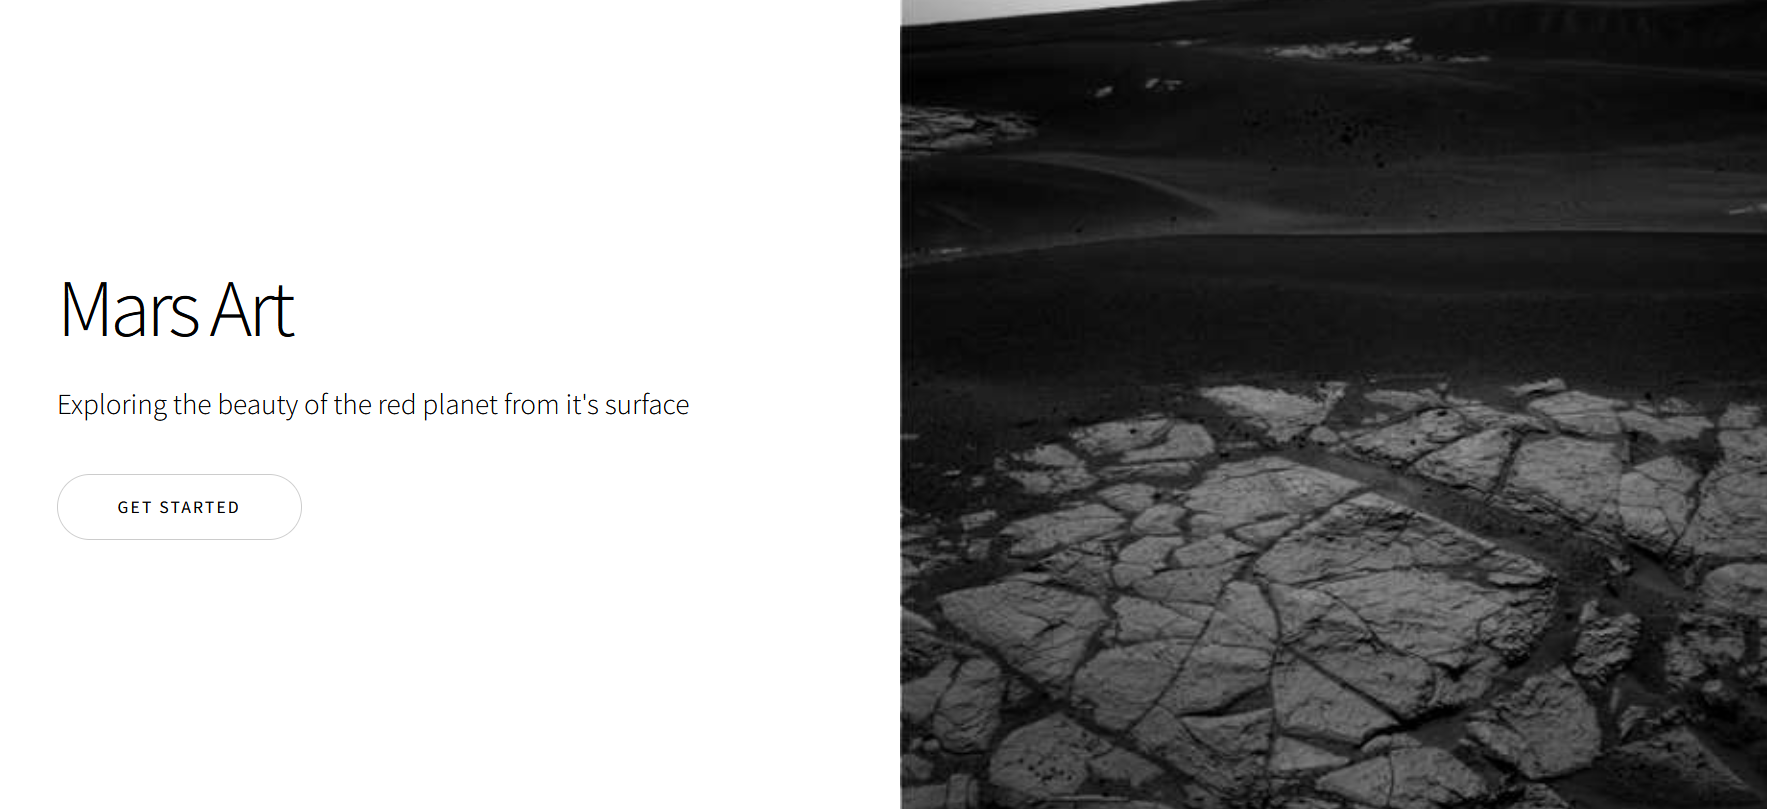
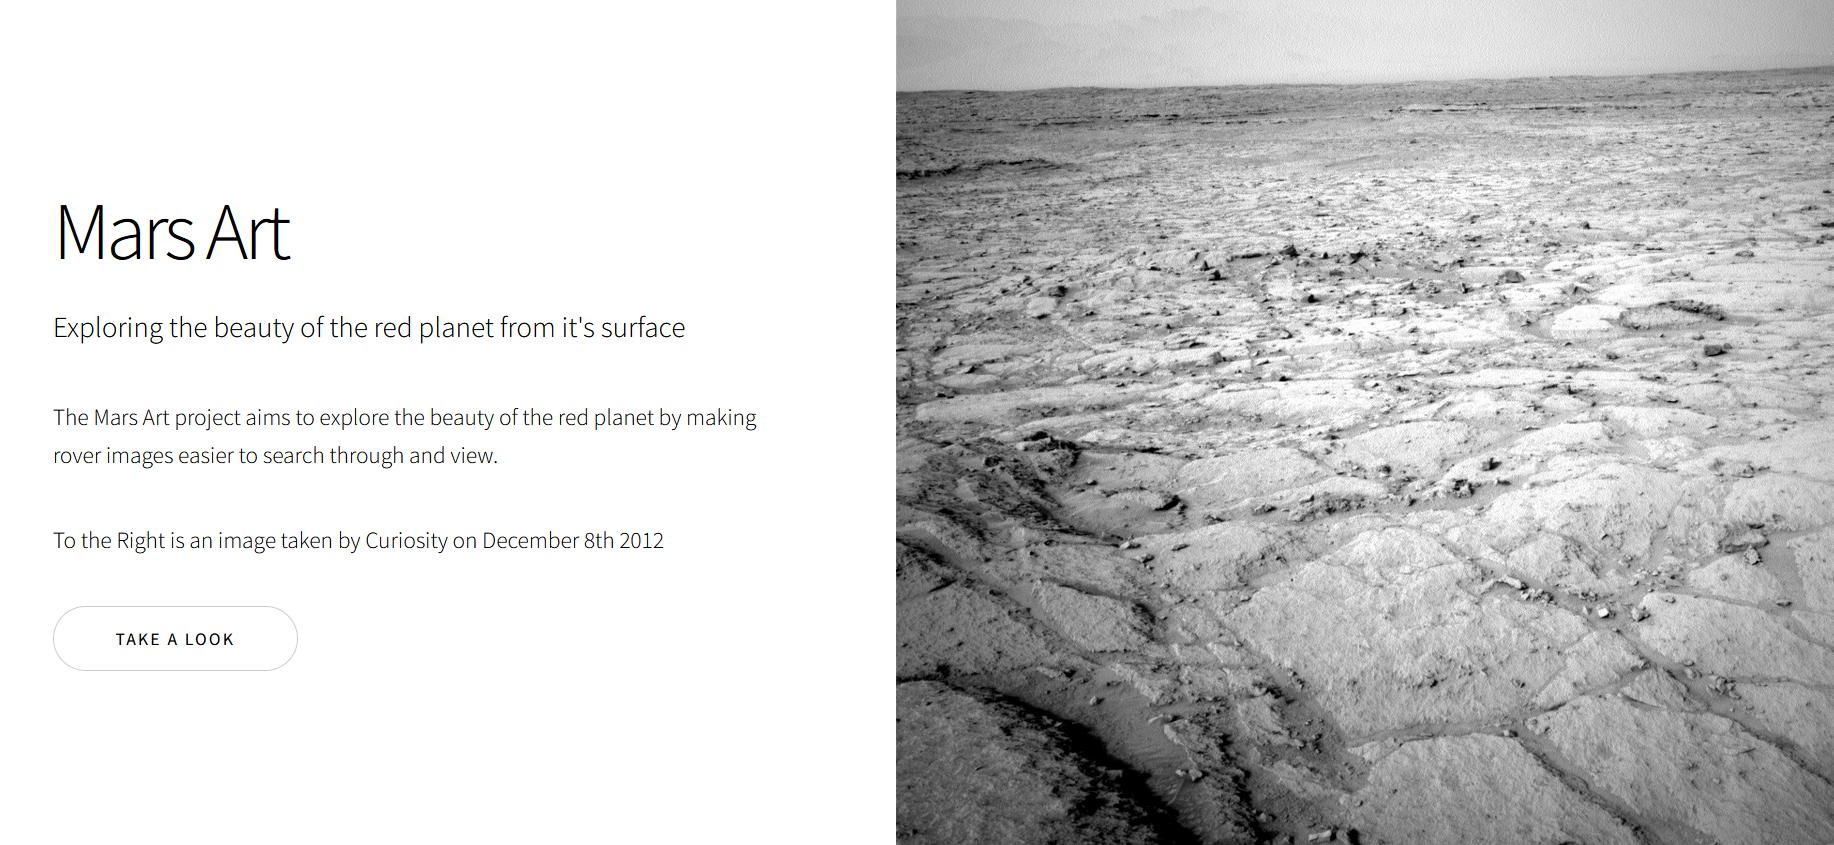
Update to the project README file and updated screen shot

diff --git a/README.md b/README.md
@@ -29,10 +29,10 @@
 
 <!-- PROJECT LOGO -->
 <br />
-<div align="center">
+<!-- <div align="center">
   <a href="https://github.com/Kirk-Esterline/NASA-API-Projects">
     <img src="images/logo.png" alt="Logo" width="80" height="80">
-  </a>
+  </a> -->
 
 <h3 align="center">Mars Art</h3>
 
@@ -83,13 +83,13 @@
 <!-- ABOUT THE PROJECT -->
 ## About The Project
 
-[![Product Name Screen Shot][product-screenshot]](https://example.com)
+[![Product Name Screen Shot][product-screenshot]](https://mars-art.netlify.app/)
 
 This project is based on the publiclly available NASA APIs. By enteracting with this program we are interacting with the NASA Apis. Nothing is stored locally by this app, everything is called through the NASA APIs. There are many many more images than will likely be displayed here. The goal of this project is to show the beauty of the Marsian Surface and pictures may be curated to fit that goal. 
 
 This project is currently in the beginning stages. One of my goals is to keep the program light weight using primarily HTML and JS. This is a goal that may change in the future.  
 
- `github_username`, `repo_name`, `twitter_handle`, `linkedin_username`, `email_client`, `email`, `project_title`, `project_description`
+ <!-- `github_username`, `repo_name`, `twitter_handle`, `linkedin_username`, `email_client`, `email`, `project_title`, `project_description` -->
 
 <p align="right">(<a href="#readme-top">back to top</a>)</p>
 
@@ -115,7 +115,9 @@ This project is currently in the beginning stages. One of my goals is to keep th
 <!-- GETTING STARTED -->
 ## Getting Started
 
-Currently this program is not running live, and will only work locally. Instructions for how to run the program locally are included further down in this document.
+This program is now running live here: https://mars-art.netlify.app/ 
+
+Instructions for how to run the program locally are included further down in this document.
 
 ### Prerequisites
 
@@ -155,13 +157,16 @@ Use this space to show useful examples of how a project can be used. Additional 
 <!-- ROADMAP -->
 ## Roadmap
 
-- [ ] Random Images
+- [X] Random Images (Implement April 2024)
       - An area of the landing page where a random image is selected for display.
       - And a page for selecting random images from different Rovers and cameras
 - [ ] Specific Images
       - A page for selecting specific images. This could be a loose selection, such as selecting rovers or cameras
 - [ ] Local storage
       - The ability to store images that the user would like to return to.
+- [ ] Rover and Camera Information
+      - Include an area on the landing page for explaining the history of rovers on Mars
+      - A gallery of the cameras the rovers carried and what their uses were.
 
 See the [open issues](https://github.com/Kirk-Esterline/NASA-API-Projects/issues) for a full list of proposed features (and known issues).
 
@@ -208,13 +213,13 @@ Project Link: [https://github.com/Kirk-Esterline/NASA-API-Projects](https://gith
 
 
 <!-- ACKNOWLEDGMENTS -->
-<!-- ## Acknowledgments
+## Acknowledgments
 
-* []()
-* []()
-* []()
+* [Chris Cerami](https://github.com/corincerami/mars-photo-api)
+<!-- * []()
+* []() -->
 
-<p align="right">(<a href="#readme-top">back to top</a>)</p> -->
+<p align="right">(<a href="#readme-top">back to top</a>)</p>
 
 
 
